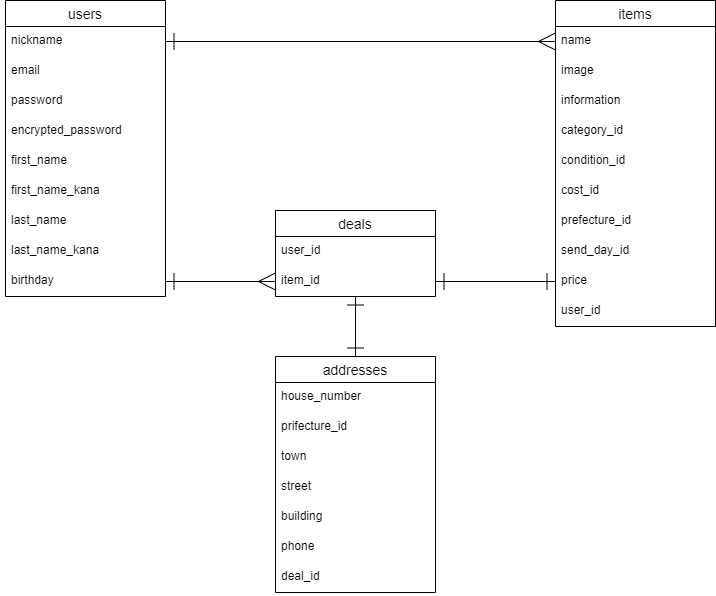
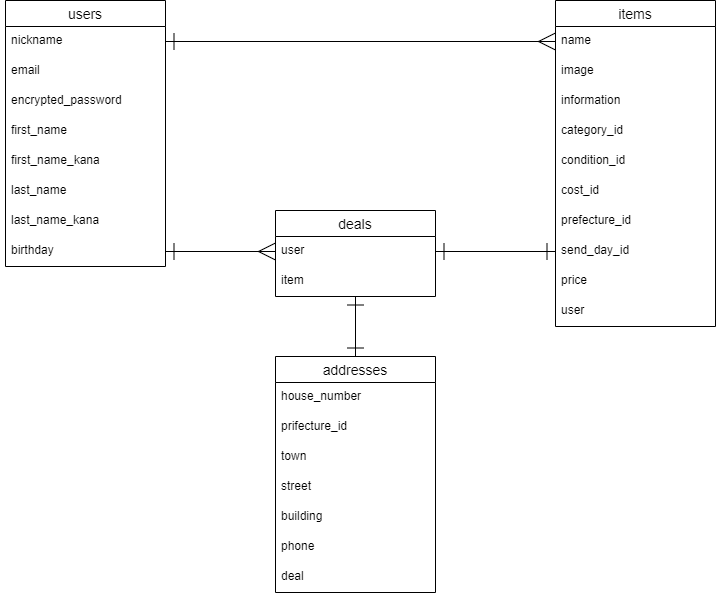
データベース設計の修正１

diff --git a/README.md b/README.md
@@ -6,13 +6,12 @@
 | ------------------ | ------- | ------------------------- |
 | nickname           | string  | null: false               |
 | email              | string  | null: false, unique: true |
-| password           | string  | null: false               |
 | encrypted_password | string  | null: false               |
 | first_name         | string  | null: false               |
 | first_name_kana    | string  | null: false               |
 | last_name          | string  | null: false               |
 | last_name_kana     | string  | null: false               |
-| birthday           | integer | null: false               |
+| birthday           | date    | null: false               |
 
 ### Association
 
@@ -25,14 +24,14 @@
 | Column        | Type       | Options                        |
 | ------------- | ---------- | ------------------------------ |
 | name          | string     | null: false                    |
-| information   | string     | null: false                    |
+| information   | text       | null: false                    |
 | category_id   | integer    | null: false                    |
 | condition_id  | integer    | null: false                    |
 | cost_id       | integer    | null: false                    |
 | prefecture_id | integer    | null: false                    |
 | send_day_id   | integer    | null: false                    |
 | price         | integer    | null: false                    |
-| user_id       | references | null: false, foreign_key: true |
+| user          | references | null: false, foreign_key: true |
 
 ### Association
 
@@ -44,8 +43,8 @@
 
 | Column    | Type       | Options                        |
 | --------- | ---------- | ------------------------------ |
-| user_id   | references | null: false, foreign_key: true |
-| item_id   | references | null: false, foreign_key: true |
+| user      | references | null: false, foreign_key: true |
+| item      | references | null: false, foreign_key: true |
 
 ### Association
 
@@ -63,10 +62,9 @@
 | town          | string     | null: false                    |
 | street        | string     | null: false                    |
 | building      | string     |                                |
-| phone         | integer    | null: false                    |
-| deal_id       | references | null: false, foreign_key: true |
+| phone         | string     | null: false                    |
+| deal          | references | null: false, foreign_key: true |
 
 ### Association
 
-- belongs_to :room
-- belongs_to :user
+- belongs_to :deal
